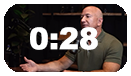
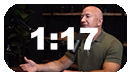
Commit 9 - Added Wiki Links & 3 ITCA

Changed region(s): [[0.2137, 0.3421, 0.7634, 0.6579]]

diff --git a/4_inthecreativeact/i_files/i6_finding&usingcreativebricks.html b/4_inthecreativeact/i_files/i6_finding&usingcreativebricks.html
@@ -3,39 +3,39 @@
 <head>
   <meta charset="UTF-8">
   <meta name="viewport" content="width=device-width, initial-scale=1.0">
-  <title>U3 Everyone Is 1 Of 1</title>
-  <link rel="stylesheet" href="u0_videospecific.css">
+  <title>I6 Finding & Using Creative Bricks</title>
+  <link rel="stylesheet" href="i0_videospecific.css">
 </head>
 <body>
 
   <header class="sticky-header">
     <a href="../../hub.html">
-       <img src="u_images/blueprintmain.png" alt="BLUEPRINT_HEADER" class="header-logo">
+       <img src="i_images/blueprintmain.png" alt="BLUEPRINT_HEADER" class="header-logo">
     </a>
   </header>
 
   <div class="grid-container">
 
     <div class="grid-item">
-      <a href="../uniqueness_hub.html">
-      <img src="u_images/uniqueness_return.png" alt="UNIQUENESS_RETURN">
+      <a href="../inthecreativeact_hub.html">
+      <img src="i_images/inthecreativeact_return.png" alt="INTHECREATIVEACT_RETURN">
       </a>
     </div>
 
     <div class="video-container">
-      <iframe width="782" height="440" src="https://www.youtube.com/embed/4sHXyqCK-EA?rel=0" frameborder="0" allowfullscreen></iframe>
+      <iframe width="782" height="440" src="https://www.youtube.com/embed/Hs5LSHuseL8?rel=0&amp;start=4583&amp;end=4650" frameborder="0" allowfullscreen></iframe>
     </div>
 
     <div class="grid-item">
-      <img src="u_images/share.png" alt="SHARE" id="shareButton">
+      <img src="i_images/share.png" alt="SHARE" id="shareButton">
     </div>
 
     <div class="grid-item">
     </div>
 
     <div class="grid-item">
-      <p class="centered_title"><span class="grey_tool">U3</span>
-        <span class="white_title"> EVERYONE IS 1 OF 1</span>
+      <p class="centered_title"><span class="grey_tool">I6</span>
+        <span class="white_title"> FINDING & USING CREATIVE BRICKS</span>
         <br>
         <!--
         <span class="grey_ourtake"> OUR TAKEAWAYS:</span>
@@ -50,14 +50,12 @@
           <span class="white_credits">CREDITS</span>
           <br>
           <span class="grey_speakers"> SPEAKERS:</span>
-          <span class="grey_speakerswrite"> <a href="https://en.wikipedia.org/wiki/Rick_Rubin" target="_blank" class="speaker_link">rick rubin</a>, <a href="https://en.wikipedia.org/wiki/Jay_Shetty" target="_blank" class="speaker_link">jay shetty</a></span>
+          <span class="grey_speakerswrite"><a href="https://en.wikipedia.org/wiki/Harry_Mack" target="_blank" class="speaker_link">harry mack</a>, <a href="https://en.wikipedia.org/wiki/Rick_Glassman" target="_blank" class="speaker_link">rick glassman</a></span>
           <br>
           <span class="grey_speakers"> SOURCE:</span>
-          <span class="grey_speakerswrite"> ON PURPOSE Podcast</span>
+          <span class="grey_speakerswrite"> Take Your Shoes Off Podcast</span>
           <br>
-          <span class="blue_link"> <a href="https://www.youtube.com/watch?v=60pHJXUjaJY" target="_blank"> watch full source here</a></span>
-          <br>
-          <span class="blue_link"> <a href="https://a.co/d/cMOtHZS" target="_blank"> rick rubin's book here</a></span>
+          <span class="blue_link"> <a href="https://www.youtube.com/watch?v=Hs5LSHuseL8" target="_blank"> watch full source here</a></span>
       </p>
       </div>
     </div>

diff --git a/4_inthecreativeact/i_files/i4_gowiththeflow.html b/4_inthecreativeact/i_files/i4_gowiththeflow.html
@@ -3,39 +3,39 @@
 <head>
   <meta charset="UTF-8">
   <meta name="viewport" content="width=device-width, initial-scale=1.0">
-  <title>U3 Everyone Is 1 Of 1</title>
-  <link rel="stylesheet" href="u0_videospecific.css">
+  <title>I4 Go With The Flow</title>
+  <link rel="stylesheet" href="i0_videospecific.css">
 </head>
 <body>
 
   <header class="sticky-header">
     <a href="../../hub.html">
-       <img src="u_images/blueprintmain.png" alt="BLUEPRINT_HEADER" class="header-logo">
+       <img src="i_images/blueprintmain.png" alt="BLUEPRINT_HEADER" class="header-logo">
     </a>
   </header>
 
   <div class="grid-container">
 
     <div class="grid-item">
-      <a href="../uniqueness_hub.html">
-      <img src="u_images/uniqueness_return.png" alt="UNIQUENESS_RETURN">
+      <a href="../inthecreativeact_hub.html">
+      <img src="i_images/inthecreativeact_return.png" alt="INTHECREATIVEACT_RETURN">
       </a>
     </div>
 
     <div class="video-container">
-      <iframe width="782" height="440" src="https://www.youtube.com/embed/4sHXyqCK-EA?rel=0" frameborder="0" allowfullscreen></iframe>
+      <iframe width="782" height="440" src="https://www.youtube.com/embed/lDGmSCXoSRs?rel=0&amp;start=1574&amp;end=1585" frameborder="0" allowfullscreen></iframe>
     </div>
 
     <div class="grid-item">
-      <img src="u_images/share.png" alt="SHARE" id="shareButton">
+      <img src="i_images/share.png" alt="SHARE" id="shareButton">
     </div>
 
     <div class="grid-item">
     </div>
 
     <div class="grid-item">
-      <p class="centered_title"><span class="grey_tool">U3</span>
-        <span class="white_title"> EVERYONE IS 1 OF 1</span>
+      <p class="centered_title"><span class="grey_tool">I4</span>
+        <span class="white_title"> GO WITH THE FLOW</span>
         <br>
         <!--
         <span class="grey_ourtake"> OUR TAKEAWAYS:</span>
@@ -50,14 +50,12 @@
           <span class="white_credits">CREDITS</span>
           <br>
           <span class="grey_speakers"> SPEAKERS:</span>
-          <span class="grey_speakerswrite"> <a href="https://en.wikipedia.org/wiki/Rick_Rubin" target="_blank" class="speaker_link">rick rubin</a>, <a href="https://en.wikipedia.org/wiki/Jay_Shetty" target="_blank" class="speaker_link">jay shetty</a></span>
+          <span class="grey_speakerswrite"><a href="https://en.wikipedia.org/wiki/André_3000" target="_blank" class="speaker_link">andre3000</a>, <a href="https://www.gq.com/contributor/zach-baron" target="_blank" class="speaker_link">zach baron</a></span>
           <br>
           <span class="grey_speakers"> SOURCE:</span>
-          <span class="grey_speakerswrite"> ON PURPOSE Podcast</span>
+          <span class="grey_speakerswrite"> GQ</span>
           <br>
-          <span class="blue_link"> <a href="https://www.youtube.com/watch?v=60pHJXUjaJY" target="_blank"> watch full source here</a></span>
-          <br>
-          <span class="blue_link"> <a href="https://a.co/d/cMOtHZS" target="_blank"> rick rubin's book here</a></span>
+          <span class="blue_link"> <a href="https://www.youtube.com/watch?v=lDGmSCXoSRs" target="_blank"> watch full source here</a></span>
       </p>
       </div>
     </div>

diff --git a/5_whyyoudoit/w_files/w3_chasingyourpassion.html b/5_whyyoudoit/w_files/w3_chasingyourpassion.html
@@ -3,39 +3,39 @@
 <head>
   <meta charset="UTF-8">
   <meta name="viewport" content="width=device-width, initial-scale=1.0">
-  <title>U3 Everyone Is 1 Of 1</title>
-  <link rel="stylesheet" href="u0_videospecific.css">
+  <title>W3 Chasing Your Passion</title>
+  <link rel="stylesheet" href="w0_videospecific.css">
 </head>
 <body>
 
   <header class="sticky-header">
     <a href="../../hub.html">
-       <img src="u_images/blueprintmain.png" alt="BLUEPRINT_HEADER" class="header-logo">
+       <img src="w_images/blueprintmain.png" alt="BLUEPRINT_HEADER" class="header-logo">
     </a>
   </header>
 
   <div class="grid-container">
 
     <div class="grid-item">
-      <a href="../uniqueness_hub.html">
-      <img src="u_images/uniqueness_return.png" alt="UNIQUENESS_RETURN">
+      <a href="../whyyoudoit_hub.html">
+      <img src="w_images/whyyoudoit_return.png" alt="WHYYOUDOIT_RETURN">
       </a>
     </div>
 
     <div class="video-container">
-      <iframe width="782" height="440" src="https://www.youtube.com/embed/4sHXyqCK-EA?rel=0" frameborder="0" allowfullscreen></iframe>
+      <iframe width="782" height="440" src="https://www.youtube.com/embed/vK9ENieACCA?rel=0" frameborder="0" allowfullscreen></iframe>
     </div>
 
     <div class="grid-item">
-      <img src="u_images/share.png" alt="SHARE" id="shareButton">
+      <img src="w_images/share.png" alt="SHARE" id="shareButton">
     </div>
 
     <div class="grid-item">
     </div>
 
     <div class="grid-item">
-      <p class="centered_title"><span class="grey_tool">U3</span>
-        <span class="white_title"> EVERYONE IS 1 OF 1</span>
+      <p class="centered_title"><span class="grey_tool">W3</span>
+        <span class="white_title"> CHASING YOUR PASSION</span>
         <br>
         <!--
         <span class="grey_ourtake"> OUR TAKEAWAYS:</span>
@@ -50,14 +50,12 @@
           <span class="white_credits">CREDITS</span>
           <br>
           <span class="grey_speakers"> SPEAKERS:</span>
-          <span class="grey_speakerswrite"> <a href="https://en.wikipedia.org/wiki/Rick_Rubin" target="_blank" class="speaker_link">rick rubin</a>, <a href="https://en.wikipedia.org/wiki/Jay_Shetty" target="_blank" class="speaker_link">jay shetty</a></span>
+          <span class="grey_speakerswrite"> <a href="https://en.wikipedia.org/wiki/Alli_Webb" target="_blank" class="speaker_link">alli webb</a>, <a href="https://en.wikipedia.org/wiki/Jay_Shetty" target="_blank" class="speaker_link">jay shetty</a></span>
           <br>
           <span class="grey_speakers"> SOURCE:</span>
           <span class="grey_speakerswrite"> ON PURPOSE Podcast</span>
           <br>
-          <span class="blue_link"> <a href="https://www.youtube.com/watch?v=60pHJXUjaJY" target="_blank"> watch full source here</a></span>
-          <br>
-          <span class="blue_link"> <a href="https://a.co/d/cMOtHZS" target="_blank"> rick rubin's book here</a></span>
+          <span class="blue_link"> <a href="https://www.youtube.com/watch?v=C6q5n9TGbME&t=58s" target="_blank"> watch full source here</a></span>
       </p>
       </div>
     </div>

diff --git a/4_inthecreativeact/i_files/i5_createforyou.html b/4_inthecreativeact/i_files/i5_createforyou.html
@@ -3,39 +3,39 @@
 <head>
   <meta charset="UTF-8">
   <meta name="viewport" content="width=device-width, initial-scale=1.0">
-  <title>U3 Everyone Is 1 Of 1</title>
-  <link rel="stylesheet" href="u0_videospecific.css">
+  <title>I4 Go With The Flow</title>
+  <link rel="stylesheet" href="i0_videospecific.css">
 </head>
 <body>
 
   <header class="sticky-header">
     <a href="../../hub.html">
-       <img src="u_images/blueprintmain.png" alt="BLUEPRINT_HEADER" class="header-logo">
+       <img src="i_images/blueprintmain.png" alt="BLUEPRINT_HEADER" class="header-logo">
     </a>
   </header>
 
   <div class="grid-container">
 
     <div class="grid-item">
-      <a href="../uniqueness_hub.html">
-      <img src="u_images/uniqueness_return.png" alt="UNIQUENESS_RETURN">
+      <a href="../inthecreativeact_hub.html">
+      <img src="i_images/inthecreativeact_return.png" alt="INTHECREATIVEACT_RETURN">
       </a>
     </div>
 
     <div class="video-container">
-      <iframe width="782" height="440" src="https://www.youtube.com/embed/4sHXyqCK-EA?rel=0" frameborder="0" allowfullscreen></iframe>
+      <iframe width="782" height="440" src="https://www.youtube.com/embed/60pHJXUjaJY?rel=0&amp;start=1204&amp;end=1262" frameborder="0" allowfullscreen></iframe>
     </div>
 
     <div class="grid-item">
-      <img src="u_images/share.png" alt="SHARE" id="shareButton">
+      <img src="i_images/share.png" alt="SHARE" id="shareButton">
     </div>
 
     <div class="grid-item">
     </div>
 
     <div class="grid-item">
-      <p class="centered_title"><span class="grey_tool">U3</span>
-        <span class="white_title"> EVERYONE IS 1 OF 1</span>
+      <p class="centered_title"><span class="grey_tool">I4</span>
+        <span class="white_title"> GO WITH THE FLOW</span>
         <br>
         <!--
         <span class="grey_ourtake"> OUR TAKEAWAYS:</span>
@@ -56,8 +56,6 @@
           <span class="grey_speakerswrite"> ON PURPOSE Podcast</span>
           <br>
           <span class="blue_link"> <a href="https://www.youtube.com/watch?v=60pHJXUjaJY" target="_blank"> watch full source here</a></span>
-          <br>
-          <span class="blue_link"> <a href="https://a.co/d/cMOtHZS" target="_blank"> rick rubin's book here</a></span>
       </p>
       </div>
     </div>

diff --git a/5_whyyoudoit/w_files/w1_whyyoudoit.html b/5_whyyoudoit/w_files/w1_whyyoudoit.html
@@ -23,7 +23,7 @@
     </div>
 
     <div class="video-container">
-      <iframe width="782" height="440" src="https://www.youtube.com/embed/vK9ENieACCA?rel=0" frameborder="0" allowfullscreen></iframe>
+      <iframe width="782" height="440" src="https://www.youtube.com/embed/UPfk_txXt78?rel=0" frameborder="0" allowfullscreen></iframe>
     </div>
 
     <div class="grid-item">
@@ -50,12 +50,12 @@
           <span class="white_credits">CREDITS</span>
           <br>
           <span class="grey_speakers"> SPEAKERS:</span>
-          <span class="grey_speakerswrite"> alli webb, jay shetty</span>
+          <span class="grey_speakerswrite"> <a href="https://en.wikipedia.org/wiki/Yes_Theory" target="_blank" class="speaker_link">thomas brag</a>, <a href="https://en.wikipedia.org/wiki/Yes_Theory" target="_blank" class="speaker_link">ammar kandhil</a>, colin, samir</span>
           <br>
           <span class="grey_speakers"> SOURCE:</span>
-          <span class="grey_speakerswrite"> ON PURPOSE Podcast</span>
+          <span class="grey_speakerswrite"> Colin & Samir Podcast</span>
           <br>
-          <span class="blue_link"> <a href="https://www.youtube.com/watch?v=C6q5n9TGbME&t=58s" target="_blank"> watch full source here</a></span>
+          <span class="blue_link"> <a href="https://www.youtube.com/watch?v=3vbZvRHpM8w" target="_blank"> watch full source here</a></span>
       </p>
       </div>
     </div>

diff --git a/4_inthecreativeact/inthecreativeact_hub.html b/4_inthecreativeact/inthecreativeact_hub.html
@@ -56,6 +56,42 @@
        </a>
      </div>
 
+     <div class="grid-item">
+      <a href="i_files/i4_gowiththeflow.html">
+         <p><span class="grey_tool">I4</span>
+              <span class="white_title"> GO WITH THE FLOW</span>
+              <span class="grey_speakers"> andre3000, zach baron</span>
+          </p>
+      </a>
+     <a href="i_files/i4_gowiththeflow.html">
+     <img class="image_hover" src="i_thumbnails/i4_thumbnail.png" alt="thumbnail">
+     </a>
+   </div>
+
+   <div class="grid-item">
+    <a href="i_files/i5_createforyou.html">
+       <p><span class="grey_tool">I5</span>
+            <span class="white_title"> CREATE FOR YOU</span>
+            <span class="grey_speakers"> rick rubin, jay shetty</span>
+        </p>
+    </a>
+   <a href="i_files/i5_createforyou.html">
+   <img class="image_hover" src="i_thumbnails/i5_thumbnail.png" alt="thumbnail">
+   </a>
+ </div>
+
+ <div class="grid-item">
+  <a href="i_files/i6_finding&usingcreativebricks.html">
+     <p><span class="grey_tool">I6</span>
+          <span class="white_title"> FINDING & USING CREATIVE BRICKS</span>
+          <span class="grey_speakers"> harry mack, rick glassman</span>
+      </p>
+  </a>
+ <a href="i_files/i6_finding&usingcreativebricks.html">
+ <img class="image_hover" src="i_thumbnails/i6_thumbnail.png" alt="thumbnail">
+ </a>
+</div>
+
   </div>
 
 </body>

diff --git a/5_whyyoudoit/whyyoudoit_hub.html b/5_whyyoudoit/whyyoudoit_hub.html
@@ -24,7 +24,7 @@
         <a href="w_files/w1_whyyoudoit.html">
            <p><span class="grey_tool">W1</span>
                 <span class="white_title"> WHY YOU DO IT</span>
-                <span class="grey_speakers"> alli webb, jay shetty</span>
+                <span class="grey_speakers"> thomas brag, samir</span>
             </p>
         </a>
        <a href="w_files/w1_whyyoudoit.html">
@@ -45,13 +45,13 @@
      </div>
 
     <div class="grid-item">
-        <a href="w_files/w3_purposebehindyourwork.html">
+        <a href="w_files/w3_chasingyourpassion.html">
            <p><span class="grey_tool">W3</span>
-                <span class="white_title"> PURPOSE BEHIND YOUR WORK</span>
-                <span class="grey_speakers"> thomas brag, samir</span>
+                <span class="white_title"> CHASING YOUR PASSION</span>
+                <span class="grey_speakers"> alli webb, jay shetty</span>
             </p>
         </a>
-       <a href="w_files/w3_purposebehindyourwork.html">
+       <a href="w_files/w3_chasingyourpassion.html">
        <img class="image_hover" src="w_thumbnails/w3_thumbnail.png" alt="thumbnail">
        </a>
      </div>

diff --git a/1_uniqueness/u_files/u2_liveauthentic.html b/1_uniqueness/u_files/u2_liveauthentic.html
@@ -50,7 +50,7 @@
           <span class="white_credits">CREDITS</span>
           <br>
           <span class="grey_speakers"> SPEAKERS:</span>
-          <span class="grey_speakerswrite"> whitney wolfe herd, steven bartlett</span>
+          <span class="grey_speakerswrite"><a href="https://en.wikipedia.org/wiki/Whitney_Wolfe_Herd" target="_blank" class="speaker_link">whitney wolfe herd</a>, <a href="https://en.wikipedia.org/wiki/Steven_Bartlett_(businessman)" target="_blank" class="speaker_link">steven bartlett</a></span>
           <br>
           <span class="grey_speakers"> SOURCE:</span>
           <span class="grey_speakerswrite"> The Diary of a CEO Podcast</span>

diff --git a/1_uniqueness/u_files/u1_uniqueness.html b/1_uniqueness/u_files/u1_uniqueness.html
@@ -50,7 +50,7 @@
           <span class="white_credits">CREDITS</span>
           <br>
           <span class="grey_speakers"> SPEAKERS:</span>
-          <span class="grey_speakerswrite"> rick rubin, aubrey marcus</span>
+          <span class="grey_speakerswrite"> <a href="https://en.wikipedia.org/wiki/Rick_Rubin" target="_blank" class="speaker_link">rick rubin</a>, <a href="https://www.aubreymarcus.com/pages/about" target="_blank" class="speaker_link">aubrey marcus</a></span>
           <br>
           <span class="grey_speakers"> SOURCE:</span>
           <span class="grey_speakerswrite"> Aubrey Marcus Podcast</span>

diff --git a/2_puttinginthework/p_files/p7_usingobstaclesasfuel.html b/2_puttinginthework/p_files/p7_usingobstaclesasfuel.html
@@ -51,7 +51,7 @@
           <span class="white_credits">CREDITS</span>
           <br>
           <span class="grey_speakers"> SPEAKERS:</span>
-          <span class="grey_speakerswrite">kobe bryant, kendrick lamar</span>
+          <span class="grey_speakerswrite"> <a href="https://en.wikipedia.org/wiki/Kobe_Bryant" target="_blank" class="speaker_link">kobe bryant</a>, <a href="https://en.wikipedia.org/wiki/Kendrick_Lamar" target="_blank" class="speaker_link">kendrick lamar</a></span>
           <br>
           <span class="grey_speakers"> SOURCE:</span>
           <span class="grey_speakerswrite"> Complex News</span>

diff --git a/5_whyyoudoit/w_files/w2_whatgetsyouthere.html b/5_whyyoudoit/w_files/w2_whatgetsyouthere.html
@@ -50,7 +50,7 @@
           <span class="white_credits">CREDITS</span>
           <br>
           <span class="grey_speakers"> SPEAKERS:</span>
-          <span class="grey_speakerswrite"> rick rubin, ryan holiday</span>
+          <span class="grey_speakerswrite"> <a href="https://en.wikipedia.org/wiki/Rick_Rubin" target="_blank" class="speaker_link">rick rubin</a>, <a href="https://en.wikipedia.org/wiki/Ryan_Holiday" target="_blank" class="speaker_link">ryan holiday</a></span>
           <br>
           <span class="grey_speakers"> SOURCE:</span>
           <span class="grey_speakerswrite"> Daily Stoic Podcast</span>

diff --git a/2_puttinginthework/p_files/p6_theworkforyourworkethic.html b/2_puttinginthework/p_files/p6_theworkforyourworkethic.html
@@ -51,7 +51,7 @@
           <span class="white_credits">CREDITS</span>
           <br>
           <span class="grey_speakers"> SPEAKERS:</span>
-          <span class="grey_speakerswrite">russ vitale, jay shetty</span>
+          <span class="grey_speakerswrite"> <a href="https://en.wikipedia.org/wiki/Russ_(rapper)" target="_blank" class="speaker_link">russ vitale</a>, <a href="https://en.wikipedia.org/wiki/Jay_Shetty" target="_blank" class="speaker_link">jay shetty</a></span>
           <br>
           <span class="grey_speakers"> SOURCE:</span>
           <span class="grey_speakerswrite"> ON PURPOSE Podcast</span>
